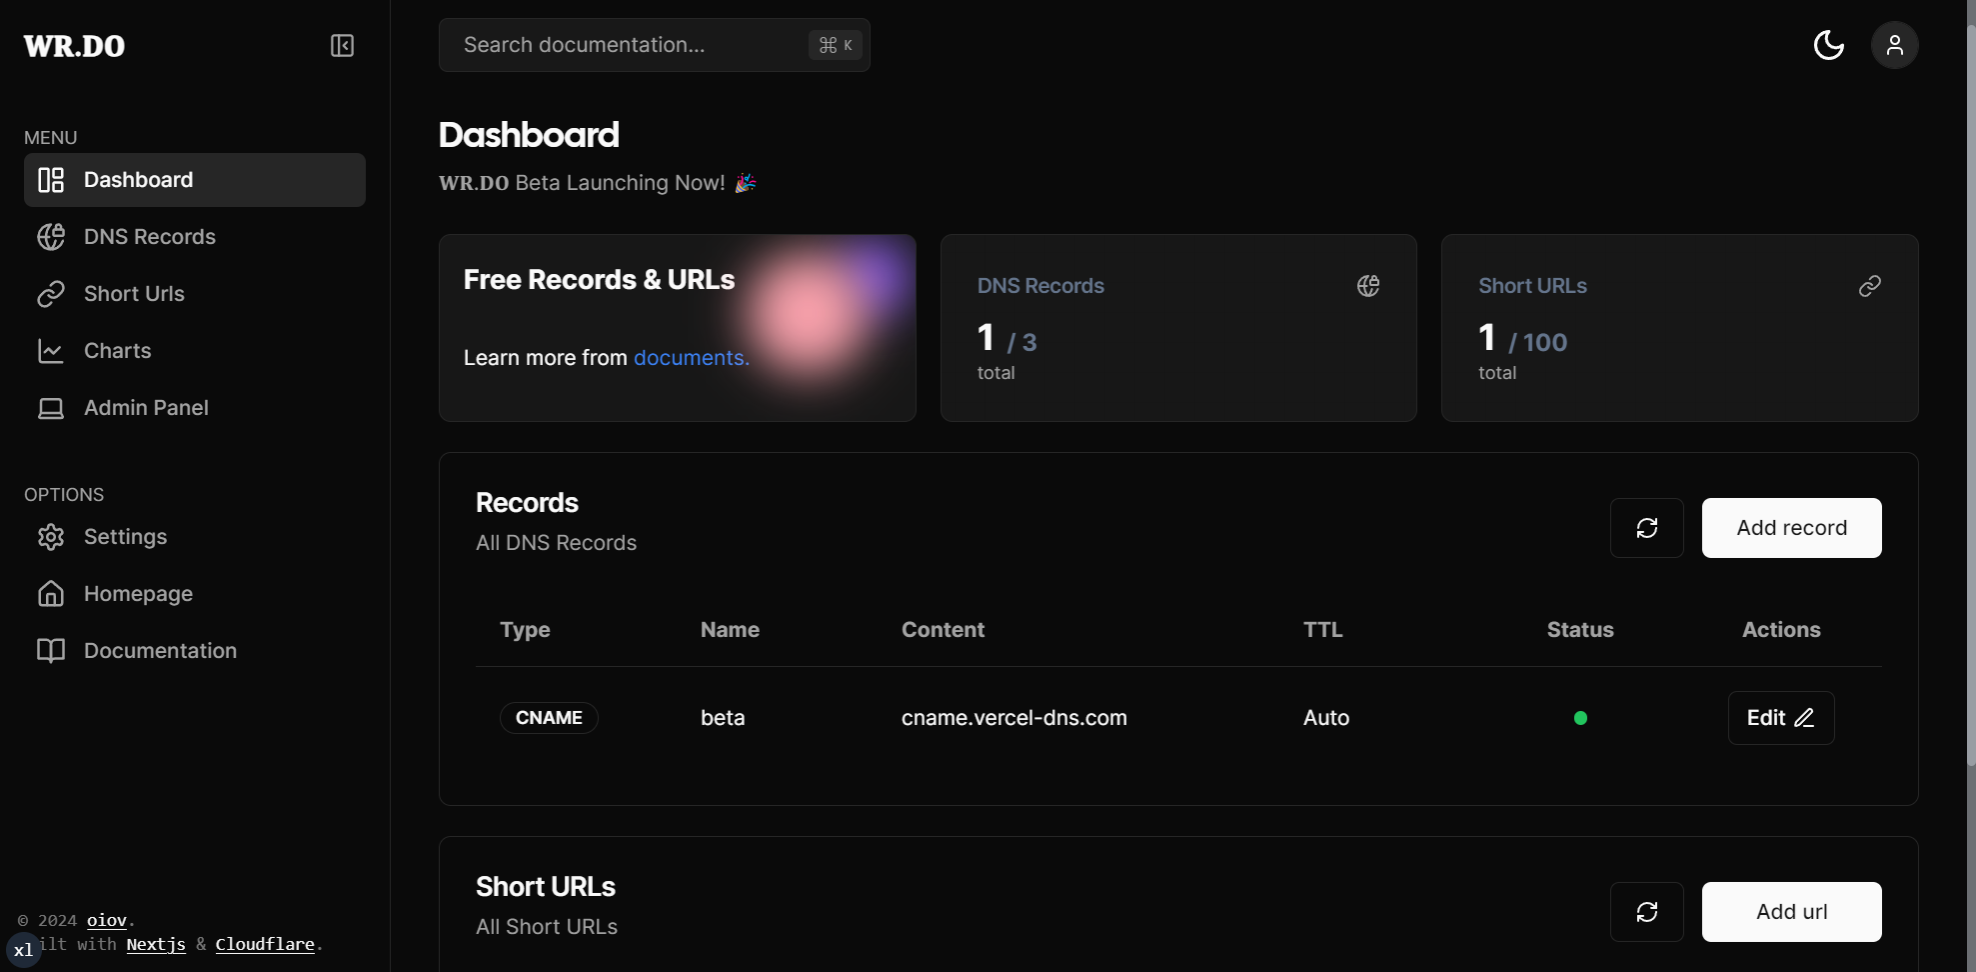
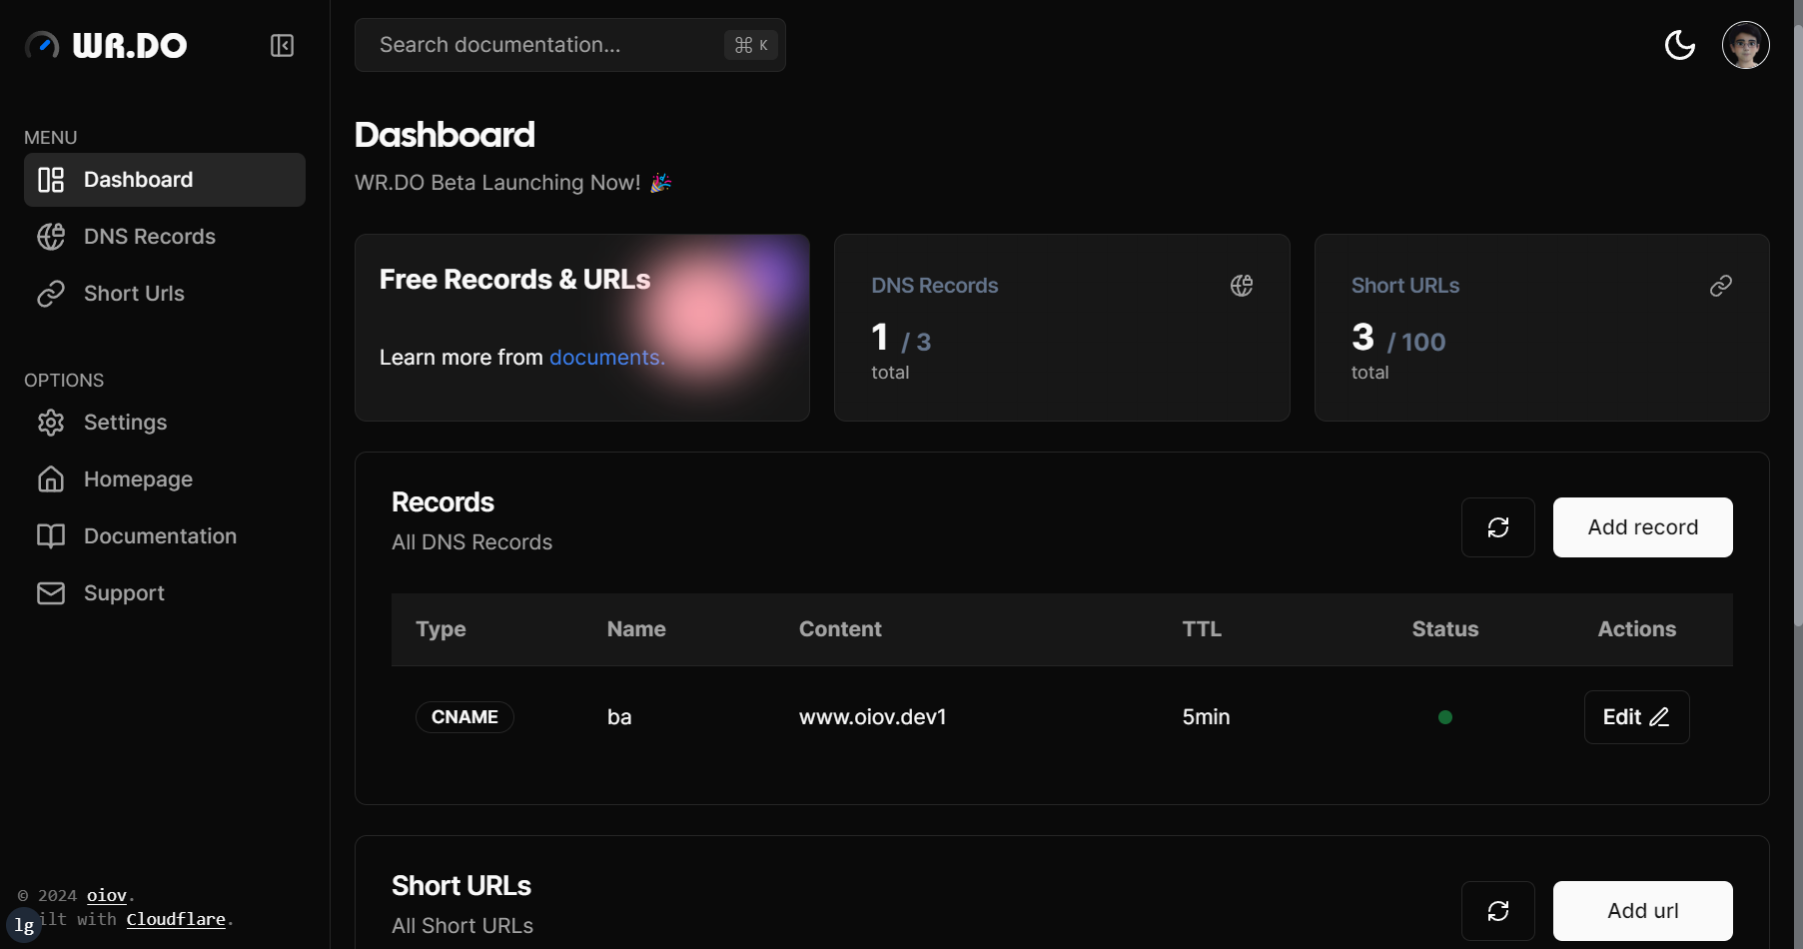
fixup style and img

diff --git a/app/(protected)/dashboard/urls/url-list.tsx b/app/(protected)/dashboard/urls/url-list.tsx
@@ -128,7 +128,7 @@ export default function UserUrlsList({ user }: UrlListProps) {
             />
           )}
           <Table>
-            <TableHeader>
+            <TableHeader className="bg-gray-100/50 dark:bg-primary-foreground">
               <TableRow className="grid grid-cols-3 items-center sm:grid-cols-7">
                 <TableHead className="col-span-1 flex items-center font-bold sm:col-span-2">
                   Target
@@ -162,7 +162,7 @@ export default function UserUrlsList({ user }: UrlListProps) {
                   >
                     <TableCell className="col-span-1 sm:col-span-2">
                       <Link
-                        className="text-slate-600 hover:text-blue-400 hover:underline"
+                        className="text-slate-600 hover:text-blue-400 hover:underline dark:text-slate-400"
                         href={short.target}
                         target="_blank"
                         prefetch={false}
@@ -175,7 +175,7 @@ export default function UserUrlsList({ user }: UrlListProps) {
                     </TableCell>
                     <TableCell className="col-span-1 flex items-center gap-1 sm:col-span-2">
                       <Link
-                        className="text-slate-600 hover:text-blue-400 hover:underline"
+                        className="text-slate-600 hover:text-blue-400 hover:underline dark:text-slate-400"
                         href={`/s/${short.url}`}
                         target="_blank"
                         prefetch={false}

diff --git a/app/(marketing)/layout.tsx b/app/(marketing)/layout.tsx
@@ -1,6 +1,6 @@
+import { NavMobile } from "@/components/layout/mobile-nav";
 import { NavBar } from "@/components/layout/navbar";
 import { SiteFooter } from "@/components/layout/site-footer";
-import { NavMobile } from "@/components/layout/mobile-nav";
 
 interface MarketingLayoutProps {
   children: React.ReactNode;
@@ -8,10 +8,12 @@ interface MarketingLayoutProps {
 
 export default function MarketingLayout({ children }: MarketingLayoutProps) {
   return (
-    <div className="flex min-h-screen flex-col">
+    <div className="flex min-h-screen flex-col bg-[linear-gradient(to_right,#4f4f4f2e_1px,transparent_1px),linear-gradient(to_bottom,#8080800a_1px,transparent_1px)] bg-[size:14px_24px] dark:bg-black dark:bg-[linear-gradient(to_right,#4f4f4f2e_1px,transparent_1px),linear-gradient(to_bottom,#8080800a_1px,transparent_1px)]">
       <NavMobile />
       <NavBar scroll={true} />
-      <main className="flex-1">{children}</main>
+      <main className="flex-1 bg-[radial-gradient(circle_400px_at_50%_300px,#a1fffc36,#ffffff)] dark:bg-[radial-gradient(circle_400px_at_50%_300px,#a1fffc36,#000)]">
+        {children}
+      </main>
       <SiteFooter />
     </div>
   );

diff --git a/components/layout/site-footer.tsx b/components/layout/site-footer.tsx
@@ -10,7 +10,7 @@ import { Icons } from "../shared/icons";
 
 export function SiteFooter({ className }: React.HTMLAttributes<HTMLElement>) {
   return (
-    <footer className={cn("border-t", className)}>
+    <footer className={cn("border-t bg-background", className)}>
       <div className="container grid max-w-6xl grid-cols-2 gap-6 py-14 md:grid-cols-5">
         <div className="col-span-full flex flex-col items-start sm:col-span-1 md:col-span-2">
           {/* <NewsletterForm /> */}
@@ -64,15 +64,6 @@ export function SiteFooter({ className }: React.HTMLAttributes<HTMLElement>) {
               oiov
             </Link>
             . <br className="block sm:hidden" /> Built with{" "}
-            <Link
-              href="https://nextjs.org?ref=wrdo"
-              target="_blank"
-              rel="noreferrer"
-              className="font-medium text-primary underline underline-offset-2"
-            >
-              Nextjs
-            </Link>{" "}
-            &{" "}
             <Link
               href="https://www.cloudflare.com?ref=wrdo"
               target="_blank"

diff --git a/components/layout/dashboard-sidebar.tsx b/components/layout/dashboard-sidebar.tsx
@@ -191,15 +191,6 @@ export function DashboardSidebar({ links }: DashboardSidebarProps) {
                   </Link>
                   . <br /> Built with{" "}
                   <Link
-                    href="https://nextjs.org?ref=wrdo"
-                    target="_blank"
-                    rel="noreferrer"
-                    className="font-medium text-primary underline underline-offset-2"
-                  >
-                    Nextjs
-                  </Link>{" "}
-                  &{" "}
-                  <Link
                     href="https://www.cloudflare.com?ref=wrdo"
                     target="_blank"
                     rel="noreferrer"

diff --git a/app/api/s/route.ts b/app/api/s/route.ts
@@ -7,13 +7,12 @@ export async function GET(req: NextRequest) {
     const url = new URL(req.url);
     const slug = url.searchParams.get("slug");
     const ip = url.searchParams.get("ip");
-    if (!slug) return Response.json(null);
+    if (!slug || !ip) return Response.json(null);
 
     const res = await getUrlBySuffix(slug);
     if (res?.target && res?.active === 1) {
-      // const ip = req.headers.get("X-Forwarded-For");
       console.log("[api/s]", ip, res.id);
-
+      // TODO
       await createUserShortUrlMeta({
         urlId: res.id,
         click: 1,

diff --git a/app/(protected)/dashboard/records/record-list.tsx b/app/(protected)/dashboard/records/record-list.tsx
@@ -138,7 +138,7 @@ export default function UserRecordsList({ user }: RecordListProps) {
             />
           )}
           <Table>
-            <TableHeader>
+            <TableHeader className="bg-gray-100/50 dark:bg-primary-foreground">
               <TableRow className="grid grid-cols-3 items-center sm:grid-cols-7">
                 <TableHead className="col-span-1 flex items-center font-bold">
                   Type

diff --git a/components/dashboard/status-dot.tsx b/components/dashboard/status-dot.tsx
@@ -5,7 +5,7 @@ export default function StatusDot({ status }: { status: number }) {
     <div
       className={cn(
         "h-[9px] w-[9px] rounded-full",
-        status === 1 ? "bg-green-500" : "bg-yellow-500",
+        status === 1 ? "animate-pulse bg-green-500" : "bg-yellow-500",
       )}
     />
   );
